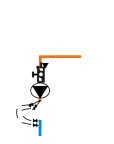
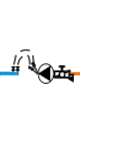
changement de l'option décharge sur zone 1 sur les schéma

diff --git a/htdocs/schematics/public/js/devis/devis.js b/htdocs/schematics/public/js/devis/devis.js
@@ -145,7 +145,6 @@ function create_SC_part(){
  * créer tout ce qui est nécessaire pour les lignes de devis contenu dans le fichier bllon_part.csv
  */
 function create_ballon_part(){
-    const double = /ballon ECS et ballon appoint en série|ballon elec en sortie ballon solaire avec bouclage sanitaire|ballon d'eau chaude sur échangeur/;
     //dans le cas d'un SC1Z le ballon se commande dans le module donc on supprime cette partie
     if (formulaire['typeInstallation'] == "SC1Z"){    
         document.querySelector("#panel_ballon").innerHTML = "";
@@ -153,8 +152,7 @@ function create_ballon_part(){
     }
     BallonTampon.lignes = CSV.ballon_part.filter(row => row.filtre1 == "TAMPON");
     let liste_ballonECS = new ListeChamp("panel_ballon", "ballonECS",BallonECS);
-    liste_ballonECS.ajouter();
-    if (double.test(formulaire['ballonECS'])) liste_ballonECS.ajouter();
+    liste_ballonECS.ajouter();  
 
     if (formulaire['ballonTampon'] == "Aucun"){
         document.querySelector("#panel_ballon fieldset:nth-child(2)").remove();
@@ -581,6 +579,10 @@ function main(){
     // ajoute un deuxième champ capteur si il y a 2 champs capteurs
     if (/2/.test(formulaire["champCapteur"]) && indexs["capteur"].length == 1){
         indexs["capteur"].push(indexs["capteur"][0]);
+    }
+    const double = /ballon ECS et ballon appoint en série|ballon elec en sortie ballon solaire avec bouclage sanitaire|ballon d'eau chaude sur échangeur/;
+    if (double.test(formulaire['ballonECS']) && indexs["ballonECS"].length == 1){
+        indexs["ballonECS"].push(indexs["ballonECS"][0]);
     }
 
     loadDevis(indexs);

diff --git a/htdocs/schematics/models/schema/SchemaHydrau.php b/htdocs/schematics/models/schema/SchemaHydrau.php
@@ -324,7 +324,7 @@ class SchemaHydrau extends Schema{
                         // Ici, la V3V décharge zone 1 n'est pas la même s'il y a un plancher chauffant
                         if (preg_match('/Plancher chauffant|PC/', $this->_formulaire['circulateurC1'])) {
                             $nameIMG .= " pc";
-                            $attribut['posLabel'][0] -= 55; // Décalage du label lorsque la décharge est raccordée sur un plancher chauffant
+                            $attribut['posLabel'][0] = 790; // Décalage du label lorsque la décharge est raccordée sur un plancher chauffant
                         } else if ($nameIMG == "V3V décharge zone 1" && preg_match('/Piscine/', $this->_formulaire['circulateurC1'])) {
                             $nameIMG .= " piscine";
                         }

diff --git a/htdocs/schematics/config/config.php b/htdocs/schematics/config/config.php
@@ -1,5 +1,5 @@
 <?php 
-const VERSION = "2.0.23";
+const VERSION = "2.0.24";
 //cette constante une fois indiqué à true va forcer le rechargement des fichiers javaScript pour
 //éviter qu'ils soit mis en cache
 const DISABLED_CACHE = false;
